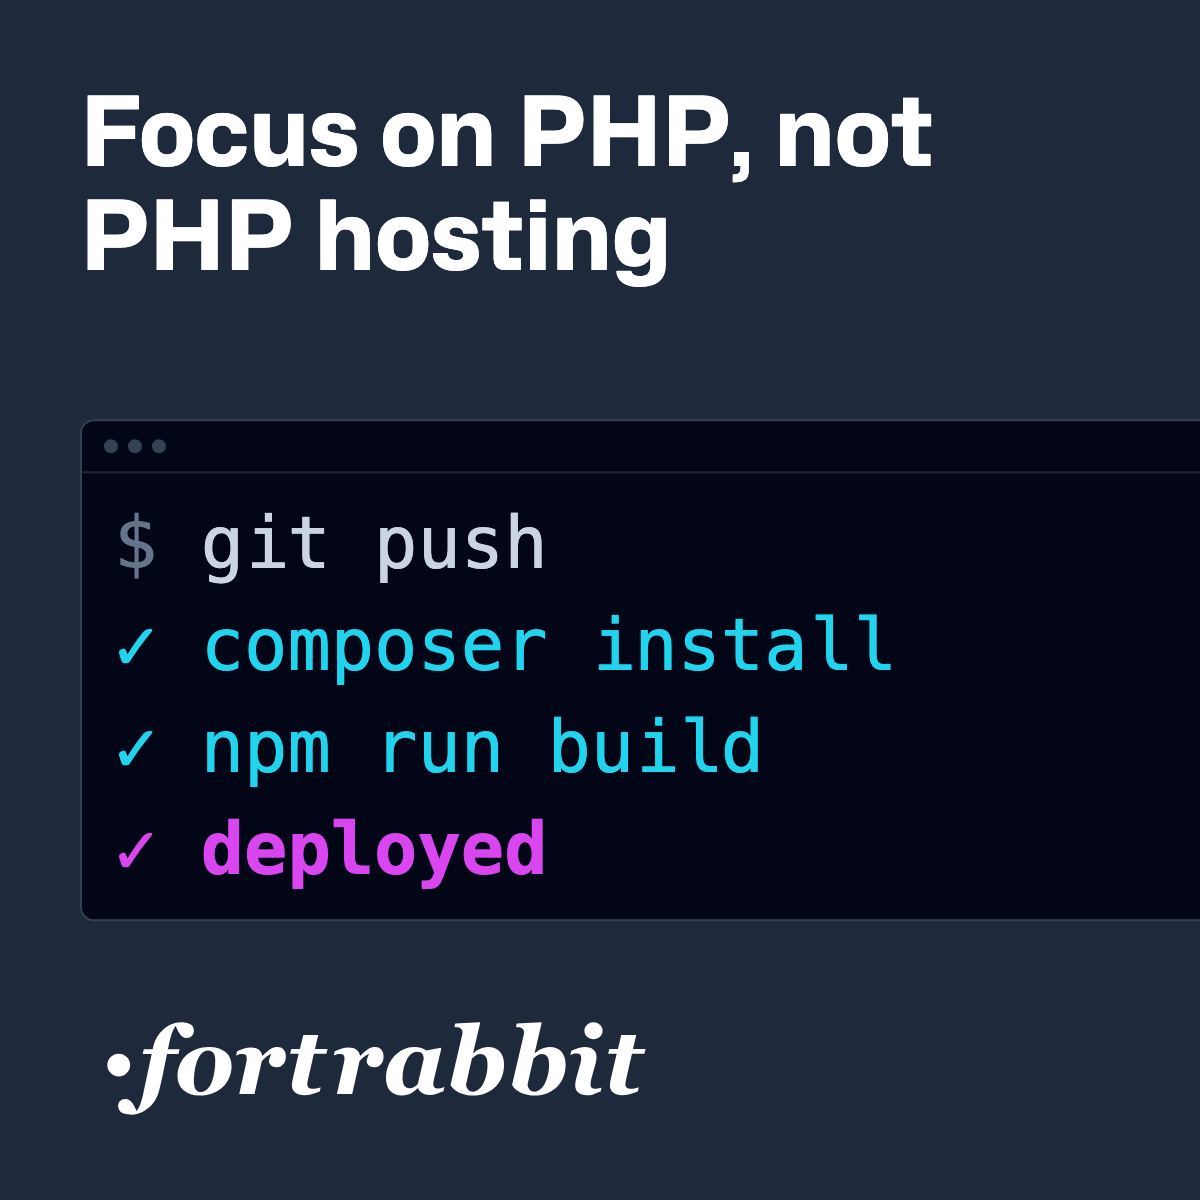
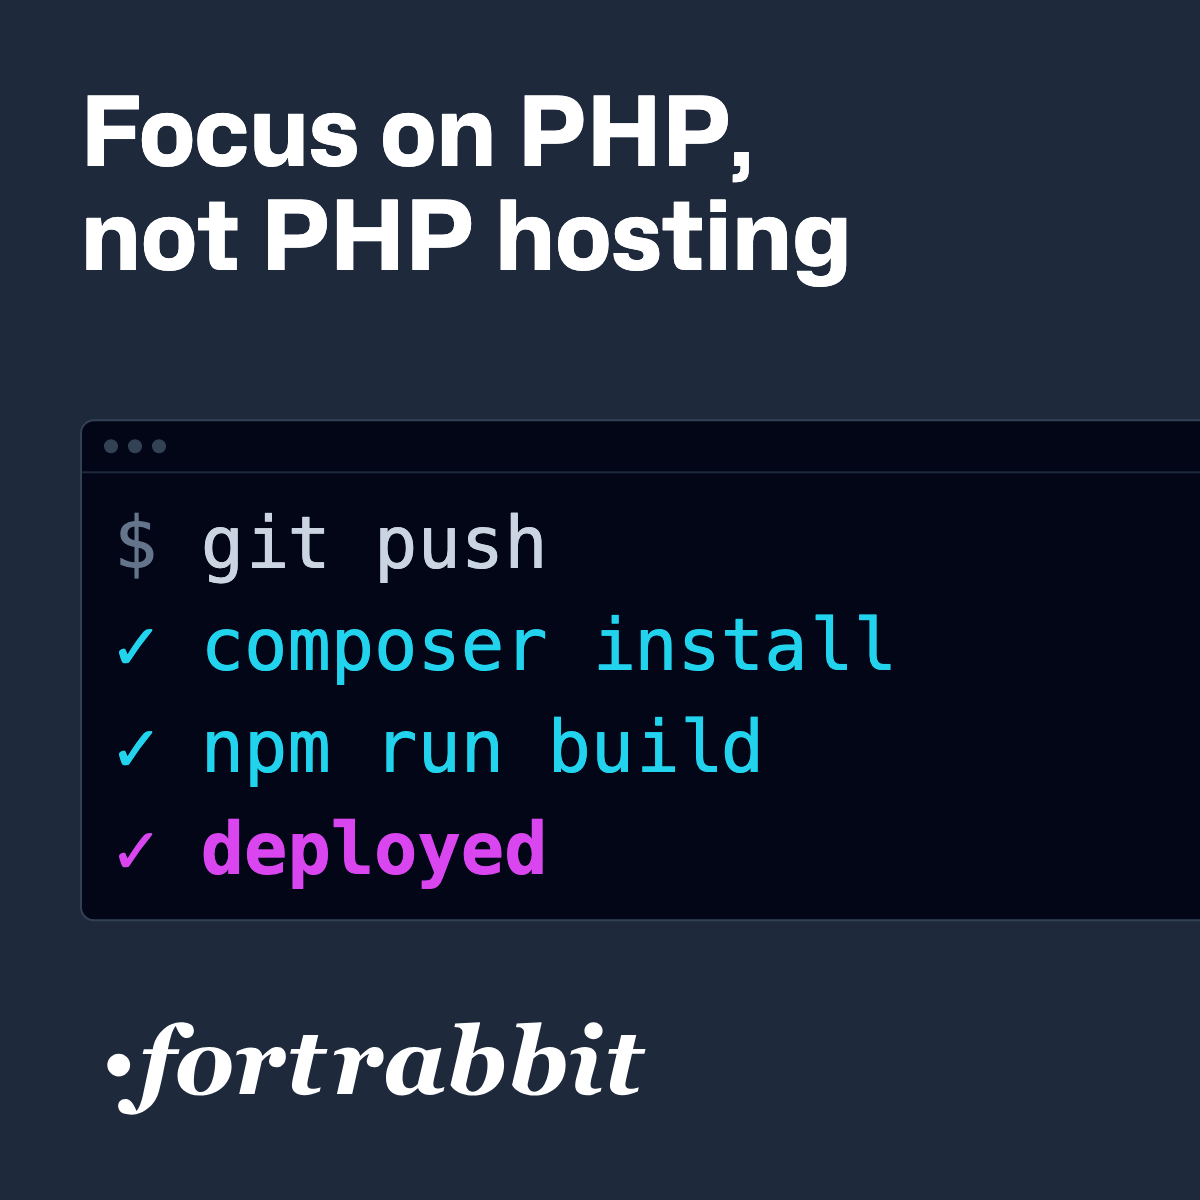
MR-370 Break ad claims after the comma and compress the PNGs
pngquant brings each image from about 70 KB to about 30 KB. The Upload section in the README goes, it described one campaign.

Changed region(s): [[0.0617, 0.0617, 0.7708, 0.2467]]

diff --git a/ads/template.html b/ads/template.html
@@ -61,8 +61,9 @@ if (variant === 'terminal') {
   ad.classList.add('terminal-ad')
   const pad = wide ? 64 : 80
   const termSize = wide ? 44 : tall ? 62 : 72
-  const headSize = wide ? 64 : tall ? 88 : 96
-  el('headline', { left: `${pad}px`, top: `${pad}px`, width: wide ? '460px' : `${w - pad * 2}px`, fontSize: `${headSize}px` }, claim)
+  const headSize = wide ? 58 : tall ? 88 : 96
+  // A comma in a claim marks its line break, so the phrase splits where it reads.
+  el('headline', { left: `${pad}px`, top: `${pad}px`, width: wide ? '500px' : `${w - pad * 2}px`, fontSize: `${headSize}px` }, claim.includes(', ') ? claim.split(', ').map((part) => `<span style="white-space: nowrap">${part}</span>`).join(',<br>') : claim)
   // The terminal bleeds off the right edge so its text can stay large on every format.
   el('term', wide
     ? { left: '580px', right: '-160px', top: '50%', transform: 'translateY(-50%)', fontSize: `${termSize}px` }

diff --git a/ads/README.md b/ads/README.md
@@ -27,7 +27,7 @@ The headlines come from [`claims.json`](claims.json), picked from the rotating c
 - Focus on PHP, not PHP hosting
 - Go ahead, ditch your VPS
 
-A claim has to fit in three lines on 1200×628, so roughly 35 characters at most. Add more from `ClaimRotate.vue` to test them: one responsive display ad rotates up to 15 images, and Google reports which ones perform.
+A claim has to fit in three lines on 1200×628, so roughly 35 characters at most. A comma sets the line break. Add more from `ClaimRotate.vue` to test them: one responsive display ad rotates up to 15 images, and Google reports which ones perform.
 
 ## Formats
 
@@ -43,7 +43,7 @@ Google may reject or limit images where text covers more than about 20% of the a
 
 ## Render
 
-Needs Node and the Playwright Chromium build.
+Needs Node, the Playwright Chromium build and `pngquant` (`brew install pngquant`).
 
 ```sh
 cd ads
@@ -53,7 +53,3 @@ npm run render
 ```
 
 `render.mjs` opens [`template.html`](template.html) once per claim and size and writes the PNGs to `display/`, replacing what was there. To preview one by hand, open `template.html#terminal-1200x628-PHP as a service` in a browser.
-
-## Upload
-
-Google Ads → Campaigns → `display-remarketing` → Ads → responsive display ad → Images and Logos. Upload the landscape, square and portrait images of each claim plus both logos. Headlines and descriptions are text fields in the ad itself, not part of the images.
